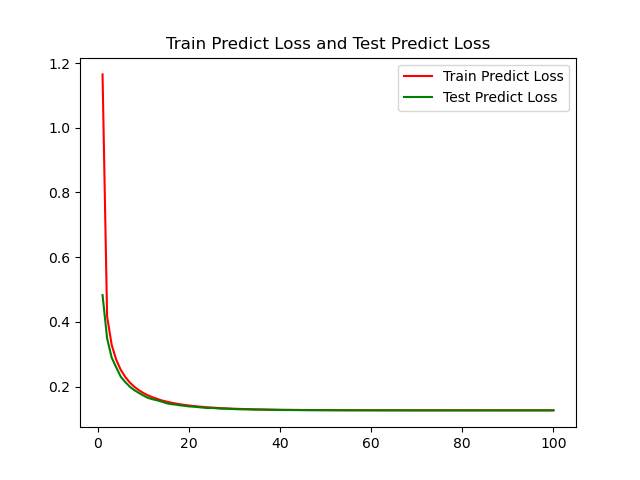
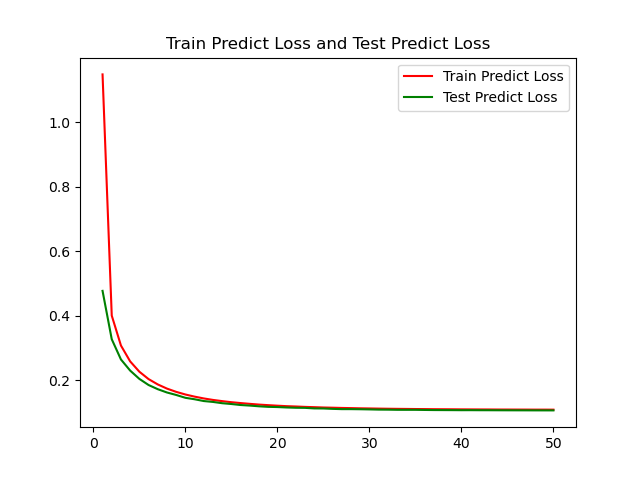
muti test

diff --git a/main4_testlmser.py b/main4_testlmser.py
@@ -1,10 +1,10 @@
 '''
 Author: QHGG
-Date: 2020-12-08 22:21:58
-LastEditTime: 2020-12-09 12:39:38
+Date: 2020-12-09 13:01:01
+LastEditTime: 2020-12-10 21:41:16
 LastEditors: QHGG
 Description: 
-FilePath: /lmser/main2.py
+FilePath: /lmser/main4_testlmser.py
 '''
 import torch
 import torch.nn as nn
@@ -151,14 +151,14 @@ class ConvAutoEncoderManual(nn.Module):
                                                      stride=1, padding=1))
         h4 = h4.view(-1, 64*2*2)
         h5 = nn.functional.linear(input=h4, weight=self.weight5, bias=self.bias5)
-        h6 = nn.functional.relu(nn.functional.linear(input=h5, weight=self.weight5.t(), bias=self.bias6) + h4)
+        h6 = nn.functional.relu(nn.functional.linear(input=h5, weight=self.weight5.t(), bias=self.bias6))
         h6 = h6.view(-1, 64, 2, 2)
         h7 = nn.functional.relu(nn.functional.conv_transpose2d(input=h6, weight=self.weight4, bias=self.bias7,
-                                                               stride=1, padding=1) + h3)
+                                                               stride=1, padding=1))
         h8 = nn.functional.relu(nn.functional.conv_transpose2d(input=h7, weight=self.weight3, bias=self.bias8,
-                                                               stride=3, padding=1) + h2)
+                                                               stride=3, padding=1))
         h9 = nn.functional.relu(nn.functional.conv_transpose2d(input=h8, weight=self.weight2, bias=self.bias9,
-                                                               stride=3, padding=0) + h1)
+                                                               stride=3, padding=0))
         h10 = nn.functional.relu(nn.functional.conv_transpose2d(input=h9, weight=self.weight1, bias=self.bias10,
                                                                 stride=3, padding=2))
         return h5, h10
@@ -178,7 +178,7 @@ if __name__ == '__main__':
     displayImages, displayLabels = dataIter.next()
     displayImages = displayImages.numpy()
     print(displayImages.shape)
-    plot(displayImages, (4, 4), 16, './output2/original.png')
+    plot(displayImages, (4, 4), 16, './output4/original.png')
     displayImages = torch.tensor(displayImages)
     displayImages = Variable(displayImages.cuda())
 
@@ -253,7 +253,7 @@ if __name__ == '__main__':
         out, decoded = model(displayImages)
         decoded = decoded.cpu().data.numpy()
         decoded = decoded.reshape(-1, 3, 32, 32)
-        plot(decoded, (4, 4), 16, './output2/Epoch_' + str(epoch + 1) + '.png')
+        plot(decoded, (4, 4), 16, './output4/Epoch_' + str(epoch + 1) + '.png')
         scheduler.step()
 
 
@@ -262,23 +262,23 @@ if __name__ == '__main__':
     line2, = plt.plot(x, testLosses, 'g')
     plt.legend(handles=[line1, line2], labels=['Train Loss', 'Test Loss'])
     plt.title('Train Loss and Test Loss')
-    plt.savefig('./CIFAR10/'+ timeLable() +'loss.png')
+    plt.savefig('./SVHNtest/'+ timeLable() +'loss.png')
     plt.close()
     line3, = plt.plot(x, trainReconLosses, 'r')
     line4, = plt.plot(x, testReconLosses, 'g')
     plt.legend(handles=[line3, line4], labels=['Train Recon Loss', 'Test Recon Loss'])
     plt.title('Train Recon Loss and Test Recon Loss')
-    plt.savefig('./CIFAR10/'+ timeLable() +'reconLoss.png')
+    plt.savefig('./SVHNtest/'+ timeLable() +'reconLoss.png')
     plt.close()
     line5, = plt.plot(x, trainPredLosses, 'r')
     line6, = plt.plot(x, testPredLosses, 'g')
     plt.legend(handles=[line5, line6], labels=['Train Predict Loss', 'Test Predict Loss'],)
     plt.title('Train Predict Loss and Test Predict Loss')
-    plt.savefig('./CIFAR10/'+ timeLable() +'perdLoss.png')
+    plt.savefig('./SVHNtest/'+ timeLable() +'perdLoss.png')
     plt.close()
     plt.plot(x, testAcc)
     plt.title('Test Accuracy')
-    plt.savefig('./CIFAR10/'+ timeLable() +'testAcc.png')
+    plt.savefig('./SVHNtest/'+ timeLable() +'testAcc.png')
     plt.close()
     displayImages = displayImages.cpu().data.numpy()
     displayImages = displayImages.reshape(-1, 3, 32, 32)
@@ -288,14 +288,14 @@ if __name__ == '__main__':
                 displayImages[i, 0, m, n] = 0
                 displayImages[i, 1, m, n] = 0
                 displayImages[i, 2, m, n] = 0
-    plot(displayImages, (4, 4), 16, './output2/masked.png')
+    plot(displayImages, (4, 4), 16, './output4/masked.png')
     
     displayImages = torch.tensor(displayImages)
     displayImages = Variable(displayImages.cuda())
     out, decoded = model(displayImages)
     decoded = decoded.cpu().data.numpy()
     decoded = decoded.reshape(-1, 3, 32, 32)
-    plot(decoded, (4, 4), 16, './CIFAR10/'+ timeLable() +'recovered.png')
+    plot(decoded, (4, 4), 16, './SVHNtest/'+ timeLable() +'recovered.png')
     encoded = []
     encodedLabel = []
     for step, (images, labels) in enumerate(trainLoader):
@@ -323,5 +323,5 @@ if __name__ == '__main__':
     for i in range(10):
         paintData = visualizeData[visualizeLabel == i]
         plt.scatter(paintData[:, 0], paintData[:, 1], s=10, c=colorBoard[i])
-    plt.savefig('./CIFAR10/'+ timeLable() +'visualize.png')
+    plt.savefig('./SVHNtest/'+ timeLable() +'visualize.png')
     plt.close()

diff --git a/main3.py b/main3.py
@@ -1,10 +1,10 @@
 '''
 Author: QHGG
-Date: 2020-12-08 22:21:58
-LastEditTime: 2020-12-09 12:39:38
+Date: 2020-12-09 13:01:01
+LastEditTime: 2020-12-09 13:09:02
 LastEditors: QHGG
 Description: 
-FilePath: /lmser/main2.py
+FilePath: /lmser/main3.py
 '''
 import torch
 import torch.nn as nn
@@ -168,8 +168,8 @@ def timeLable():
 
 if __name__ == '__main__':
     dataTransform = transforms.Compose([transforms.ToTensor()])
-    trainDataset = CIFAR10(root='./data', train=True, transform=dataTransform, download=False)
-    testDataset = CIFAR10(root='./data', train=False, transform=dataTransform, download=False)
+    trainDataset = SVHN(root='./data', split='train', transform=dataTransform, download=False)
+    testDataset = SVHN(root='./data', split='test', transform=dataTransform, download=False)
     batchSize = 64
     trainLoader = DataLoader(trainDataset, batch_size=batchSize, shuffle=True)
     testLoader = DataLoader(testDataset, batch_size=batchSize, shuffle=False)
@@ -178,7 +178,7 @@ if __name__ == '__main__':
     displayImages, displayLabels = dataIter.next()
     displayImages = displayImages.numpy()
     print(displayImages.shape)
-    plot(displayImages, (4, 4), 16, './output2/original.png')
+    plot(displayImages, (4, 4), 16, './output3/original.png')
     displayImages = torch.tensor(displayImages)
     displayImages = Variable(displayImages.cuda())
 
@@ -253,7 +253,7 @@ if __name__ == '__main__':
         out, decoded = model(displayImages)
         decoded = decoded.cpu().data.numpy()
         decoded = decoded.reshape(-1, 3, 32, 32)
-        plot(decoded, (4, 4), 16, './output2/Epoch_' + str(epoch + 1) + '.png')
+        plot(decoded, (4, 4), 16, './output3/Epoch_' + str(epoch + 1) + '.png')
         scheduler.step()
 
 
@@ -262,23 +262,23 @@ if __name__ == '__main__':
     line2, = plt.plot(x, testLosses, 'g')
     plt.legend(handles=[line1, line2], labels=['Train Loss', 'Test Loss'])
     plt.title('Train Loss and Test Loss')
-    plt.savefig('./CIFAR10/'+ timeLable() +'loss.png')
+    plt.savefig('./SVHN/'+ timeLable() +'loss.png')
     plt.close()
     line3, = plt.plot(x, trainReconLosses, 'r')
     line4, = plt.plot(x, testReconLosses, 'g')
     plt.legend(handles=[line3, line4], labels=['Train Recon Loss', 'Test Recon Loss'])
     plt.title('Train Recon Loss and Test Recon Loss')
-    plt.savefig('./CIFAR10/'+ timeLable() +'reconLoss.png')
+    plt.savefig('./SVHN/'+ timeLable() +'reconLoss.png')
     plt.close()
     line5, = plt.plot(x, trainPredLosses, 'r')
     line6, = plt.plot(x, testPredLosses, 'g')
     plt.legend(handles=[line5, line6], labels=['Train Predict Loss', 'Test Predict Loss'],)
     plt.title('Train Predict Loss and Test Predict Loss')
-    plt.savefig('./CIFAR10/'+ timeLable() +'perdLoss.png')
+    plt.savefig('./SVHN/'+ timeLable() +'perdLoss.png')
     plt.close()
     plt.plot(x, testAcc)
     plt.title('Test Accuracy')
-    plt.savefig('./CIFAR10/'+ timeLable() +'testAcc.png')
+    plt.savefig('./SVHN/'+ timeLable() +'testAcc.png')
     plt.close()
     displayImages = displayImages.cpu().data.numpy()
     displayImages = displayImages.reshape(-1, 3, 32, 32)
@@ -288,14 +288,14 @@ if __name__ == '__main__':
                 displayImages[i, 0, m, n] = 0
                 displayImages[i, 1, m, n] = 0
                 displayImages[i, 2, m, n] = 0
-    plot(displayImages, (4, 4), 16, './output2/masked.png')
+    plot(displayImages, (4, 4), 16, './output3/masked.png')
     
     displayImages = torch.tensor(displayImages)
     displayImages = Variable(displayImages.cuda())
     out, decoded = model(displayImages)
     decoded = decoded.cpu().data.numpy()
     decoded = decoded.reshape(-1, 3, 32, 32)
-    plot(decoded, (4, 4), 16, './CIFAR10/'+ timeLable() +'recovered.png')
+    plot(decoded, (4, 4), 16, './SVHN/'+ timeLable() +'recovered.png')
     encoded = []
     encodedLabel = []
     for step, (images, labels) in enumerate(trainLoader):
@@ -323,5 +323,5 @@ if __name__ == '__main__':
     for i in range(10):
         paintData = visualizeData[visualizeLabel == i]
         plt.scatter(paintData[:, 0], paintData[:, 1], s=10, c=colorBoard[i])
-    plt.savefig('./CIFAR10/'+ timeLable() +'visualize.png')
+    plt.savefig('./SVHN/'+ timeLable() +'visualize.png')
     plt.close()

diff --git a/main.py b/main.py
@@ -18,7 +18,6 @@ def plot(images, figSize, batchSize, figName):
     a, b = figSize
     for idx in np.arange(batchSize):
         ax = fig.add_subplot(a, b, idx+1)
-        print(images[idx])
         ax.imshow(np.squeeze(images[idx]), cmap='gray')
         plt.xticks([]), plt.yticks([])
     plt.savefig(figName)
@@ -159,8 +158,8 @@ class ConvAutoEncoderManual(nn.Module):
 
 if __name__ == '__main__':
     dataTransform = transforms.Compose([transforms.ToTensor()])
-    trainDataset = MNIST(root='./data', train=True, transform=dataTransform, download=True)
-    testDataset = MNIST(root='./data', train=False, transform=dataTransform, download=True)
+    trainDataset = MNIST(root='./data', train=True, transform=dataTransform, download=False)
+    testDataset = MNIST(root='./data', train=False, transform=dataTransform, download=False)
     batchSize = 64
     trainLoader = DataLoader(trainDataset, batch_size=batchSize, shuffle=True)
     testLoader = DataLoader(testDataset, batch_size=batchSize, shuffle=False)
